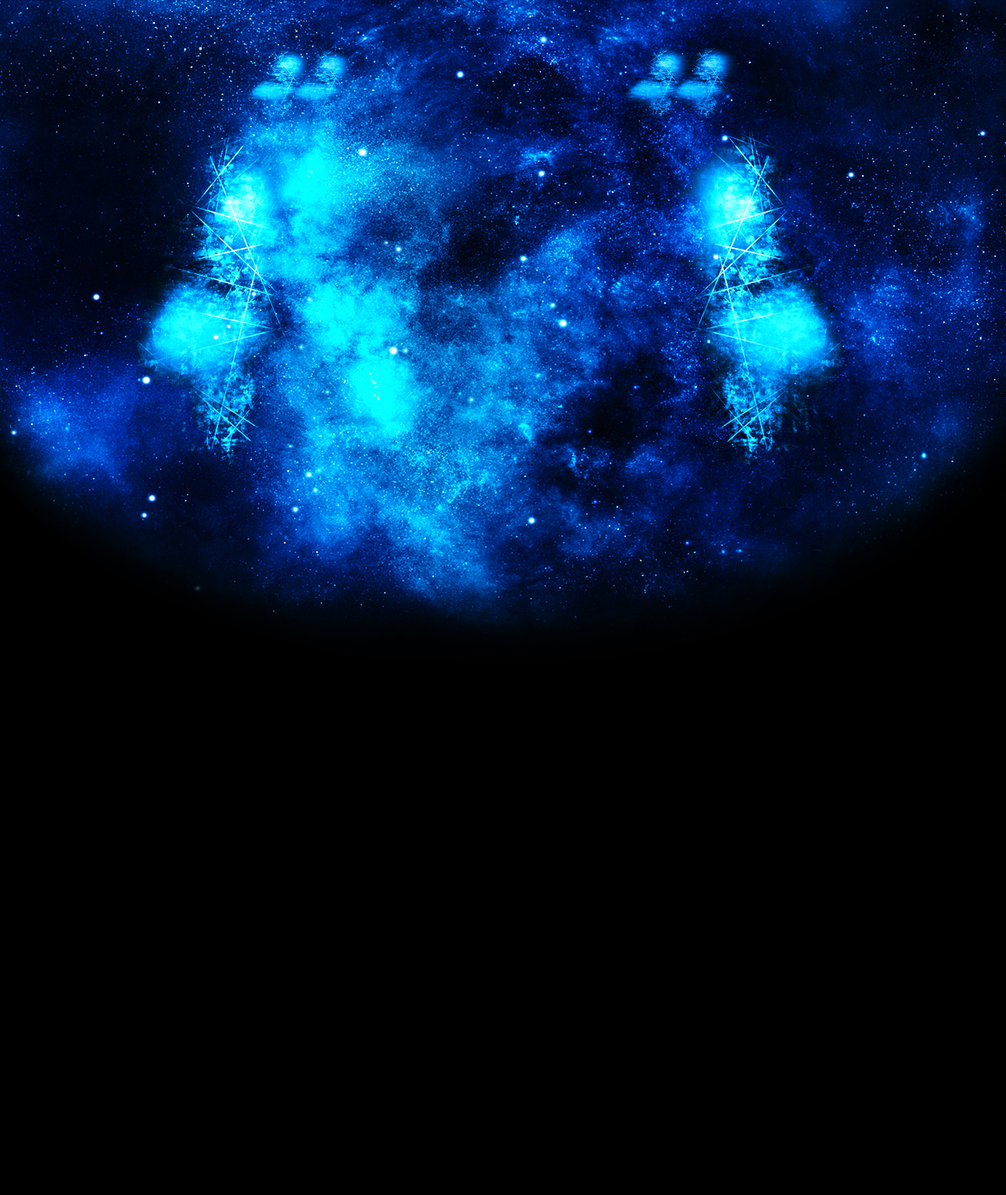
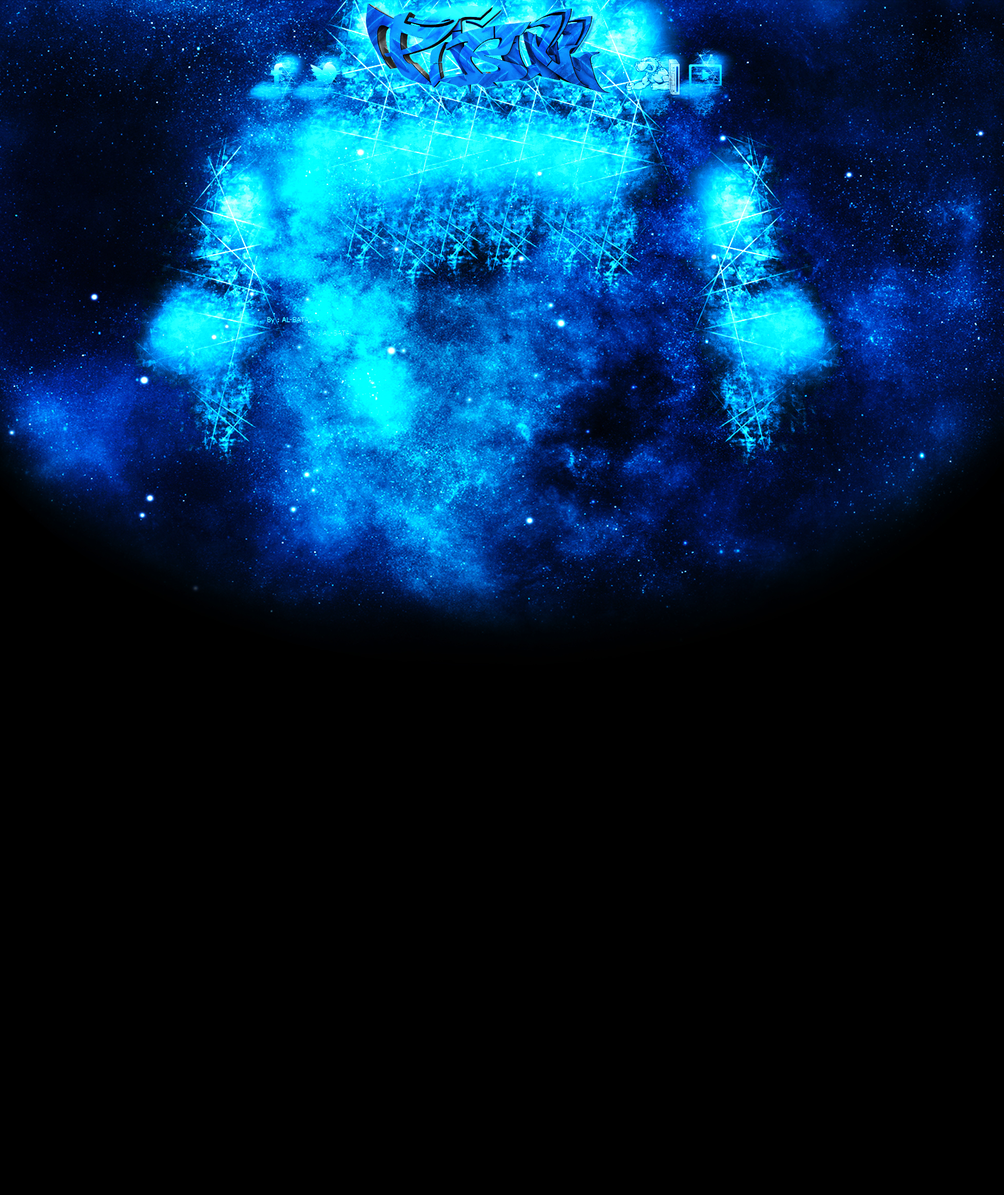
Obere leiste weg

Changed region(s): [[0.0, 0.0, 0.7797, 0.4948], [0.0, 0.1856, 0.0312, 0.2165]]

diff --git a/index.html b/index.html
@@ -26,58 +26,7 @@
 		<title>PitbullTV</title>
 	</head>
 	<body onload="slider()">
-		<div class="headline">
-			<div class="headlinecontent">
-				<span id="headlinecontenttext" class="headblue">PitBullTV</span>
-				<div class="headlinemenues">
-					<div class="headlinemenue">
-						<ul>
-							<li>
-								<div class="headlinemenuepoint">
-									<a id="blue" class="active" href="index.html">LET'S PLAY</a>
-								</div>
-							</li>
-							<li>
-								<div class="headlinemenuepoint">
-									<a id="lila" href="news/news.html">NEWS</a>
-								</div>
-							</li>
-							<li>
-								<div class="headlinemenuepoint">
-									<a id="red" href="upload/upload.html">UPLOADPLAN</a>
-								</div>
-							</li>
-							<li>
-								<div class="headlinemenuepoint">
-									<a id="orange" href="specials/specials.html">SPECIALS</a>
-								</div>
-							</li>
-						</ul>
-					</div>
-					<div class="headlineundermenue">
-						<ul>
-							<li>
-								<div class="headlineundermenuepoint">
-									<a href="index.html">Spiel 1</a>
-								</div>
-							</li>
-							<li>
-								<div class="headlineundermenuepoint">
-									<div class="strich">&#9475;</div>
-									<a href="index.html">Spiel 2</a>
-								</div>
-							</li>
-							<li>
-								<div class="headlineundermenuepoint">
-									<div class="strich">&#9475;</div>
-									<a href="index.html">Spiel 3
-								</div>
-							</li>
-						</ul>
-					</div>
-				</div>
-			</div>
-		</div>
+		
 		<div class="page">
 			<div class="contentmenue">
 				<ul class="white">

diff --git a/css/master.css b/css/master.css
@@ -4,19 +4,19 @@ body {
 }
 
 a:link {
-	color: #000000;
+	color: #bababa;
 	text-decoration: none;
 }
 a:visited {
-	color: #000000;
+	color: #bababa;
 	text-decoration: none;
 }
 a:hover {
-	color: #000000;
+	color: #bababa;
 	text-decoration: none;
 }
 a:active {
-	color: #000000;
+	color: #bababa;
 	text-decoration: none;
 }
 
@@ -27,8 +27,8 @@ a:active {
 	width: 1000px;
 	height: 800px;
 	margin: auto;
-	background-color: #FFFFFF;
-	margin-top: 70px;
+	background-color: #424242;
+	margin-top: 200px;
 }
 .pageg {
 	-webkit-border-radius: 20px;
@@ -37,7 +37,7 @@ a:active {
 	width: 1000px;
 	height: 1200px;
 	margin: auto;
-	background-color: #FFFFFF;
+	background-color: #424242;
 	margin-top: 70px;
 }
 
@@ -86,7 +86,7 @@ a:active {
 	float: left;
 	width: 320px;
 	min-height: 200px;
-	background: #FFFFFF;
+	background: #424242;
 	border-right: 2px solid #CCCCCC;
 	padding-left: 10px;
 	padding-right: 10px;
@@ -98,7 +98,7 @@ a:active {
 	min-height: 200px;
 	width: 638px;
 	float: left;
-	background: #FFFFFF;
+	background: #424242;
 }
 
 .contenttitle {
@@ -118,7 +118,7 @@ a:active {
 	height: 108px;
 	background: grey;
 	float: left;
-	border: 2px #FFFFFF solid;
+	border: 2px #424242 solid;
 	-moz-box-shadow: 0 0 2px 2px #888;
 	-webkit-box-shadow: 0 0 2px 2px #888;
 	box-shadow: 0 0 2px 2px #888;
@@ -160,7 +160,7 @@ a:active {
 .cover {
 	width: 240px;
 	height: 329px;
-	border: 4px solid #fff;
+	border: 4px solid #424242;
 -moz-box-shadow: 0 0 4px #888;
 -webkit-box-shadow: 0 0 4px #888;
 box-shadow: 0 0 4px #888;

diff --git a/css/fonts.css b/css/fonts.css
@@ -15,7 +15,7 @@
 	font-family: Arial;
 }
 .headb {
-	color: #000000;
+	color: #bababa;
 	text-align: center;
 	font-size: 60px;
 	font-family: Arial;
@@ -27,7 +27,7 @@
 }
 
 .lmiddleb {
-	color: #000000;
+	color: #bababa;
 	text-align: left;
 	font-size: 26px;
 	font-family: Arial;
@@ -41,7 +41,7 @@
 }
 
 .lsmallb {
-	color: #000000;
+	color: #bababa;
 	text-align: left;
 	font-size: 14px;
 	font-family: Arial;
